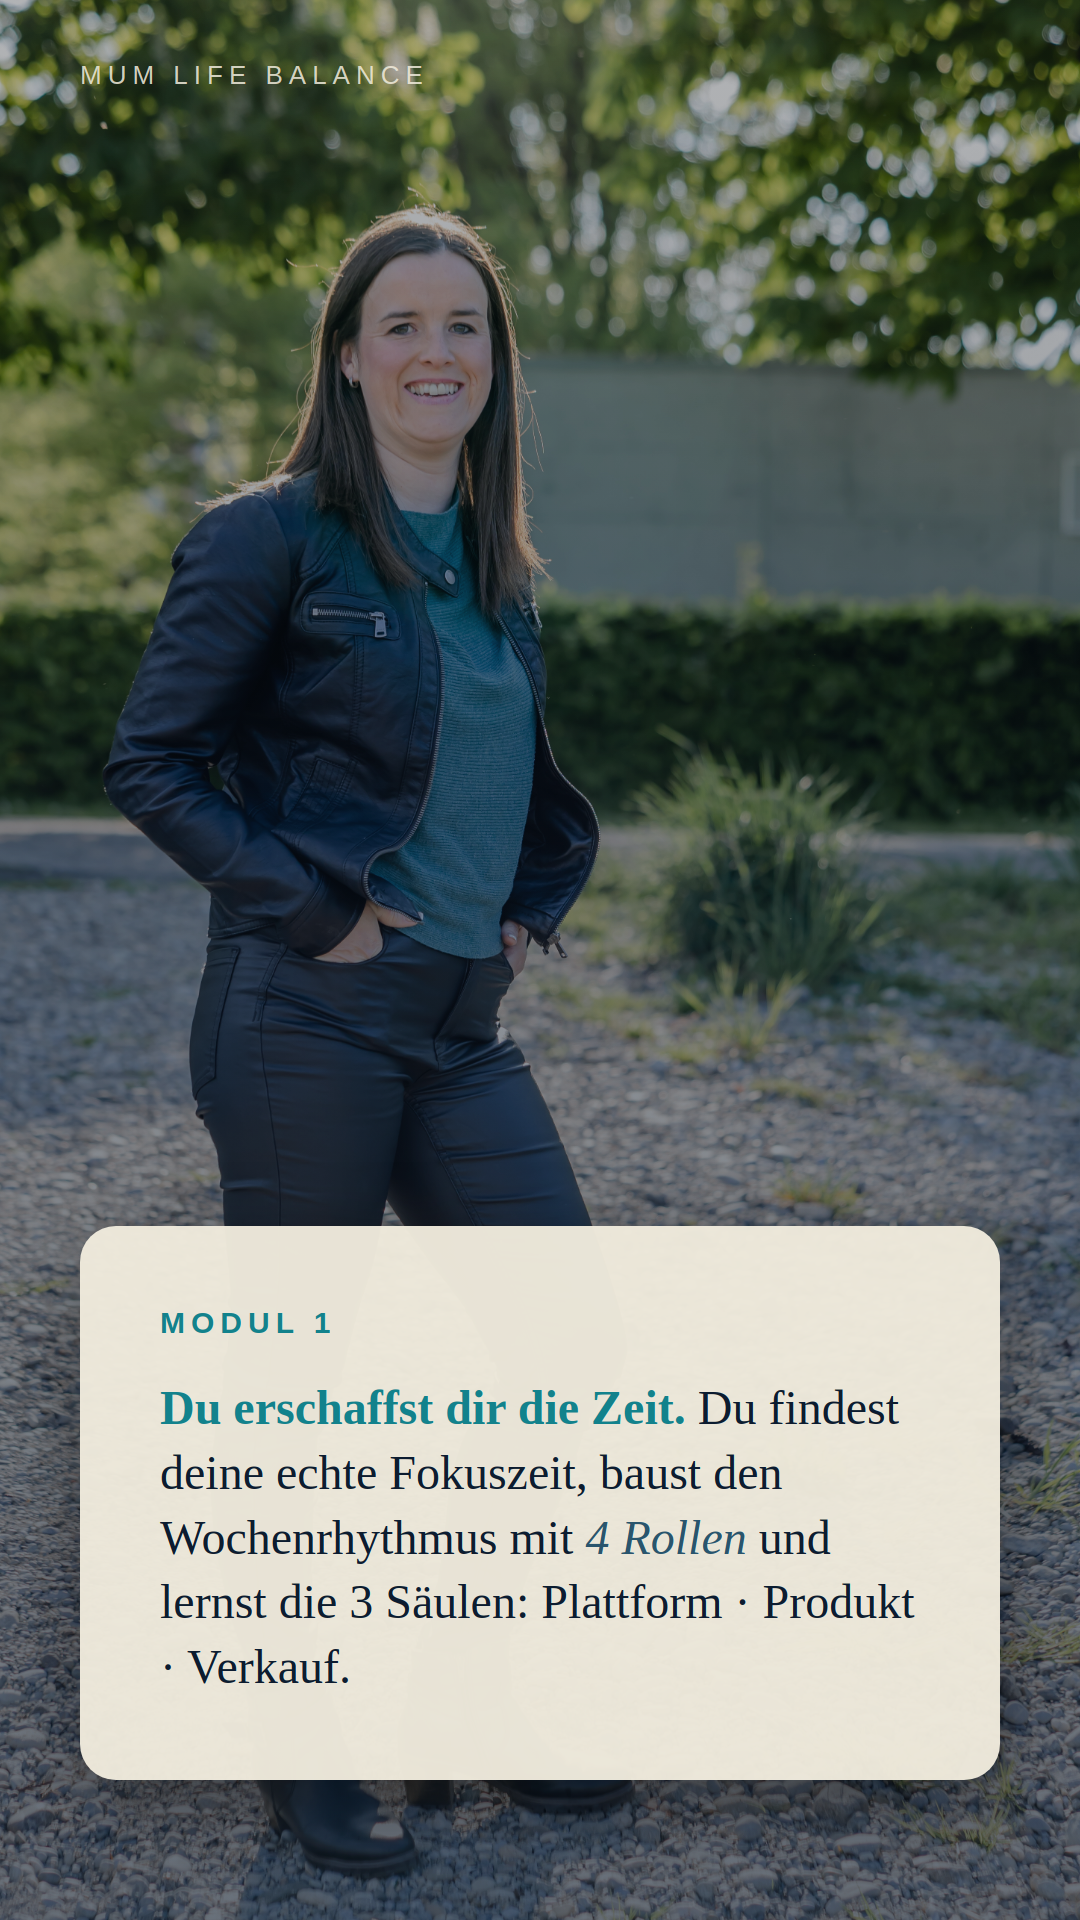
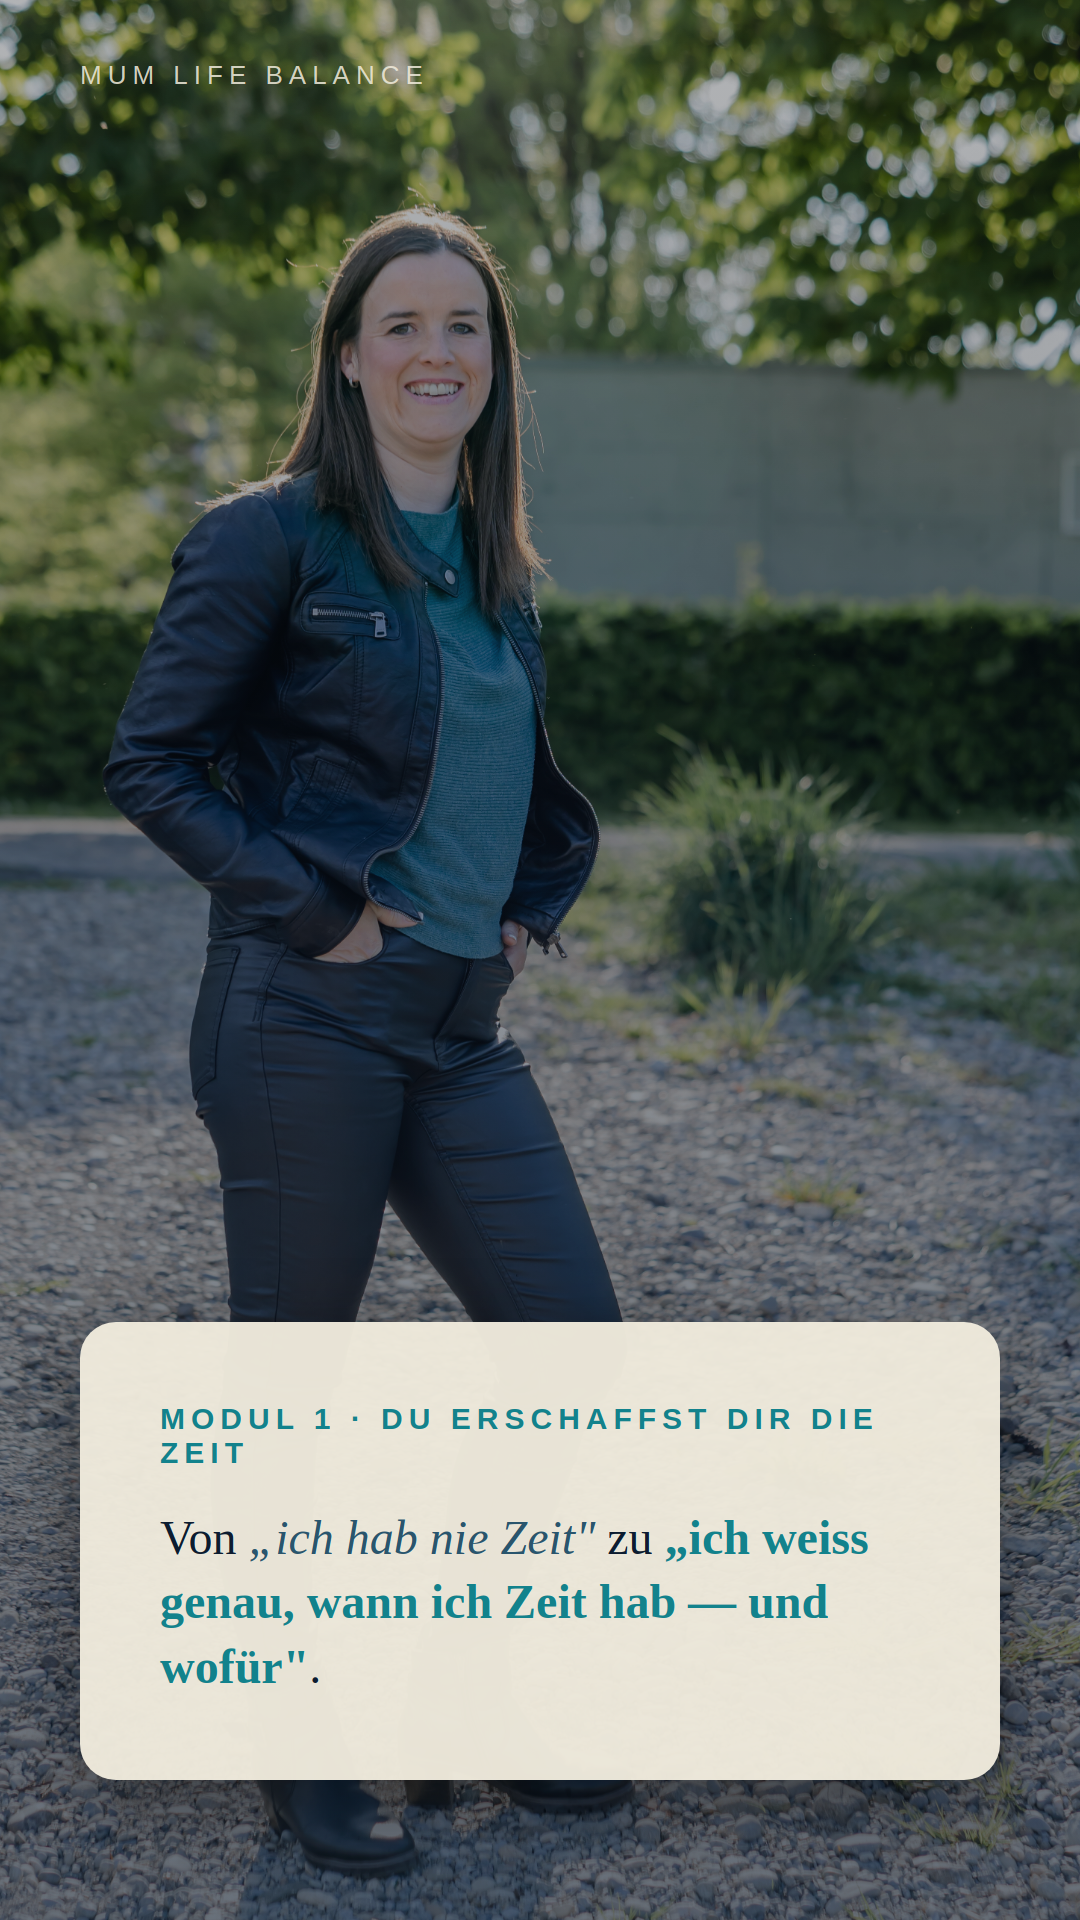
story: Tag 7 v5 — TRANSFORMATION pro Modul statt Lektionen-Liste
Patricia: nicht der Inhalt, sondern die Transformation hervorheben.
Slides 2-6 komplett umgebaut von Lektionen-Auflistung auf klares
Vorher → Nachher pro Modul.

Pattern: Eyebrow = Modul + Titel · Card = „Von [Vorher in kursiv] zu
[Nachher in Petrol-Fett]"

- Slide 2 Modul 1 (Zeit): „ich hab nie Zeit" → „ich weiss genau, wann
  ich Zeit hab — und wofuer"
- Slide 3 Modul 2 (Hamsterrad): „ich rotiere durch alles, was reinkommt"
  → „ich entscheide, was bleibt — und was weg muss"
- Slide 4 Modul 3 (Struktur): „Tools-Chaos und 1000 offene Tabs" →
  „ein Business-Brain in Notion, in dem du alles wiederfindest"
- Slide 5 Modul 4 (Delegieren): „ich mach alles selbst, weil es
  schneller ist" → „meine Bots uebernehmen den Adminkram, waehrend
  ich beim Spielplatz bin"
- Slide 6 Modul 5 (Skalieren): „Wachsen heisst mehr Stunden" → „Wachsen
  mit klarer Matrix — und Beziehungen, die ich bewusst schuetze"

Slide 1 Hook angepasst: „zeig ich dir Modul fuer Modul die Transformation,
die Mama-CEO in dir ausloest". Slides 7-9 (Live+Community + Status + CTA)
unveraendert.

Changed region(s): [[0.0611, 0.625, 0.9472, 0.875]]

diff --git a/outputs/stories/2026-05-27-salesday-mentoring-mama-ceo-launch-tag-7-katowice/slides.html b/outputs/stories/2026-05-27-salesday-mentoring-mama-ceo-launch-tag-7-katowice/slides.html
@@ -24,7 +24,7 @@
 
 <div class="grid">
 
-  <!-- SLIDE 1: HOOK · Bus Katowice + Modul-Übersicht -->
+  <!-- SLIDE 1: HOOK · Bus Katowice + Transformation-Übersicht -->
   <div class="stage-wrap">
     <div class="stage">
       <div class="slide foto-slide">
@@ -34,15 +34,15 @@
         <div class="card">
           <div class="card-eyebrow">Mittwoch · 16:00 Uhr</div>
           <div class="card-text hook">
-            Während ich im <strong>Bus ins Zentrum von Katowice</strong> sitze, erklär ich dir alle fünf Module von Mama-CEO. Eine Slide pro Modul. Damit du weisst, wofür du dich entscheidest.
+            Während ich im <strong>Bus ins Zentrum von Katowice</strong> sitze, zeig ich dir Modul für Modul die <em>Transformation</em>, die Mama-CEO in dir auslöst.
           </div>
         </div>
       </div>
     </div>
-    <div class="frame-label">01 Hook · Bus Katowice + Modul-Übersicht</div>
+    <div class="frame-label">01 Hook · Transformation-Übersicht</div>
   </div>
 
-  <!-- SLIDE 2: MODUL 1 · Du erschaffst dir die Zeit -->
+  <!-- SLIDE 2: MODUL 1 · Transformation Zeit -->
   <div class="stage-wrap">
     <div class="stage">
       <div class="slide foto-slide">
@@ -50,17 +50,17 @@
         <div class="dim"></div>
         <div class="brand-tag">Mum Life Balance</div>
         <div class="card">
-          <div class="card-eyebrow">Modul 1</div>
+          <div class="card-eyebrow">Modul 1 · Du erschaffst dir die Zeit</div>
           <div class="card-text">
-            <strong>Du erschaffst dir die Zeit.</strong> Du findest deine echte Fokuszeit, baust den Wochenrhythmus mit <em>4 Rollen</em> und lernst die 3 Säulen: Plattform · Produkt · Verkauf.
+            Von <em>„ich hab nie Zeit"</em> zu <strong>„ich weiss genau, wann ich Zeit hab — und wofür"</strong>.
           </div>
         </div>
       </div>
     </div>
-    <div class="frame-label">02 Modul 1 · Zeit</div>
+    <div class="frame-label">02 Modul 1 · Transformation Zeit</div>
   </div>
 
-  <!-- SLIDE 3: MODUL 2 · Du brichst aus dem Hamsterrad aus -->
+  <!-- SLIDE 3: MODUL 2 · Transformation Hamsterrad -->
   <div class="stage-wrap">
     <div class="stage">
       <div class="slide foto-slide">
@@ -68,17 +68,17 @@
         <div class="dim"></div>
         <div class="brand-tag">Mum Life Balance</div>
         <div class="card">
-          <div class="card-eyebrow">Modul 2</div>
+          <div class="card-eyebrow">Modul 2 · Du brichst aus dem Hamsterrad aus</div>
           <div class="card-text">
-            <strong>Du brichst aus dem Hamsterrad aus.</strong> Hamsterrad-Diagnose, das EINE Mantra <em>„100 % Selbstverantwortung"</em>, die Hütchenmethode mit Brain Dump und Rollen sortieren — plus 4-Filter, was weg kann, und der Sonntag-Reset.
+            Von <em>„ich rotiere durch alles, was reinkommt"</em> zu <strong>„ich entscheide, was bleibt — und was weg muss"</strong>.
           </div>
         </div>
       </div>
     </div>
-    <div class="frame-label">03 Modul 2 · Hamsterrad</div>
+    <div class="frame-label">03 Modul 2 · Transformation Hamsterrad</div>
   </div>
 
-  <!-- SLIDE 4: MODUL 3 · Du baust die Struktur -->
+  <!-- SLIDE 4: MODUL 3 · Transformation Struktur -->
   <div class="stage-wrap">
     <div class="stage">
       <div class="slide foto-slide">
@@ -86,17 +86,17 @@
         <div class="dim"></div>
         <div class="brand-tag">Mum Life Balance</div>
         <div class="card">
-          <div class="card-eyebrow">Modul 3</div>
+          <div class="card-eyebrow">Modul 3 · Du baust die Struktur</div>
           <div class="card-text">
-            <strong>Du baust die Struktur.</strong> Notion als dein <em>Business-Brain</em>, die 5 Kern-Workflows einer Mama-CEO, dein eigenes Notion-Master-Template komplett eingerichtet. Plus Notfall-Modus: der 50%-Plan für Kinder-Kranktage.
+            Von <em>„Tools-Chaos und 1000 offene Tabs"</em> zu <strong>„ein Business-Brain in Notion, in dem du alles wiederfindest"</strong>.
           </div>
         </div>
       </div>
     </div>
-    <div class="frame-label">04 Modul 3 · Struktur</div>
+    <div class="frame-label">04 Modul 3 · Transformation Struktur</div>
   </div>
 
-  <!-- SLIDE 5: MODUL 4 · Du delegierst den Adminkram -->
+  <!-- SLIDE 5: MODUL 4 · Transformation Delegieren -->
   <div class="stage-wrap">
     <div class="stage">
       <div class="slide foto-slide">
@@ -104,17 +104,17 @@
         <div class="dim"></div>
         <div class="brand-tag">Mum Life Balance</div>
         <div class="card">
-          <div class="card-eyebrow">Modul 4</div>
+          <div class="card-eyebrow">Modul 4 · Du delegierst den Adminkram</div>
           <div class="card-text">
-            <strong>Du delegierst den Adminkram.</strong> KI-Mythos vs. Realität, Custom GPT vs. Claude Project vs. ChatGPT — was wann. Business-Brief schreiben, Cockpit-Bot bauen, <em>Haushalts-Helfer-Bot</em> bauen, plus Bot-Audit + KI-Wochenplan.
+            Von <em>„ich mach alles selbst, weil es schneller ist"</em> zu <strong>„meine Bots übernehmen den Adminkram, während ich beim Spielplatz bin"</strong>.
           </div>
         </div>
       </div>
     </div>
-    <div class="frame-label">05 Modul 4 · Delegieren</div>
+    <div class="frame-label">05 Modul 4 · Transformation Delegieren</div>
   </div>
 
-  <!-- SLIDE 6: MODUL 5 · Du skalierst dein Business -->
+  <!-- SLIDE 6: MODUL 5 · Transformation Skalieren -->
   <div class="stage-wrap">
     <div class="stage">
       <div class="slide foto-slide">
@@ -122,14 +122,14 @@
         <div class="dim"></div>
         <div class="brand-tag">Mum Life Balance</div>
         <div class="card">
-          <div class="card-eyebrow">Modul 5</div>
+          <div class="card-eyebrow">Modul 5 · Du skalierst dein Business</div>
           <div class="card-text">
-            <strong>Du skalierst dein Business.</strong> Mama-CEO-Matrix einführen, 25 Tasks sortieren, was <em>DEINS</em> bleibt (1:1-Beziehungen schützen) — plus 90-Tage-Wachstums-Plan und was JETZT NICHT.
+            Von <em>„Wachsen heisst mehr Stunden"</em> zu <strong>„Wachsen mit klarer Matrix — und Beziehungen, die ich bewusst schütze"</strong>.
           </div>
         </div>
       </div>
     </div>
-    <div class="frame-label">06 Modul 5 · Skalieren</div>
+    <div class="frame-label">06 Modul 5 · Transformation Skalieren</div>
   </div>
 
   <!-- SLIDE 7: PLUS · Live-Calls + Telegram-Community -->
